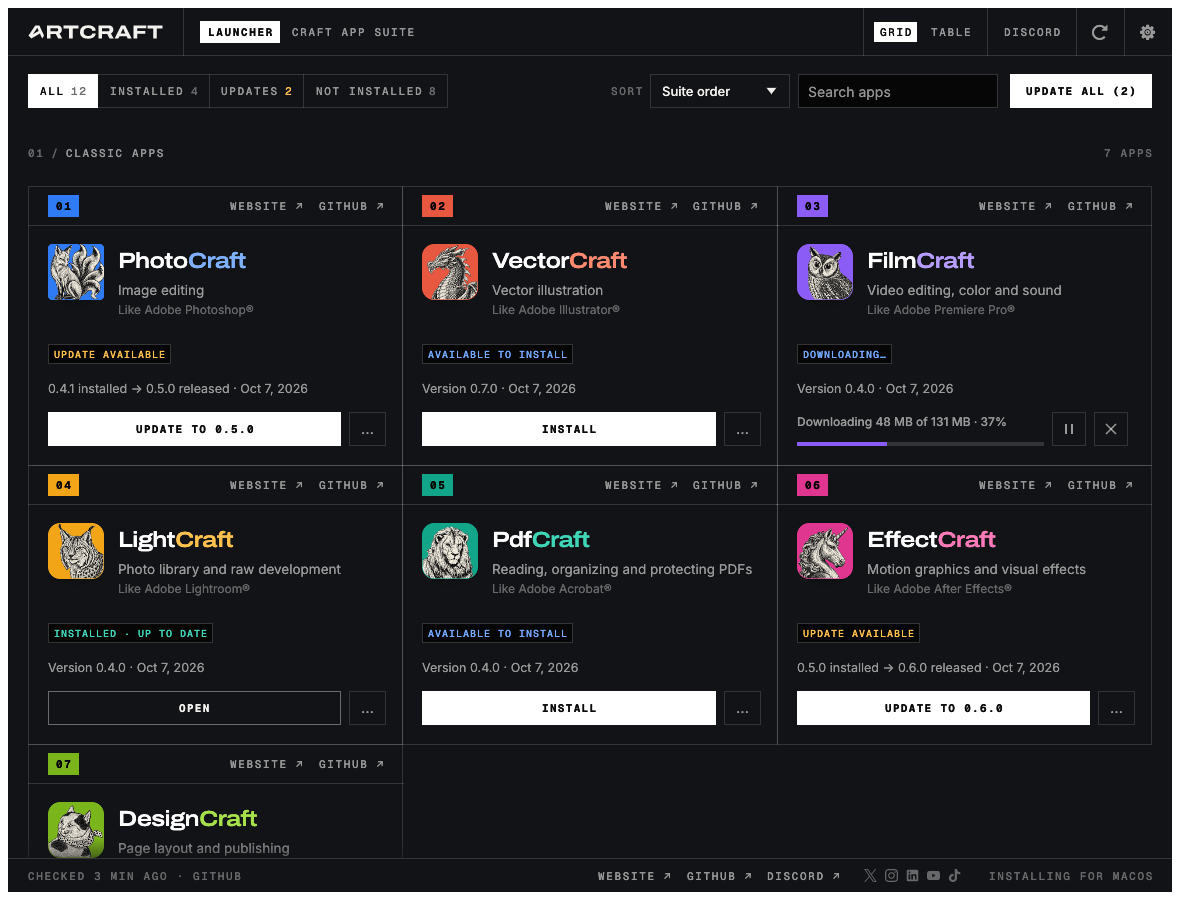
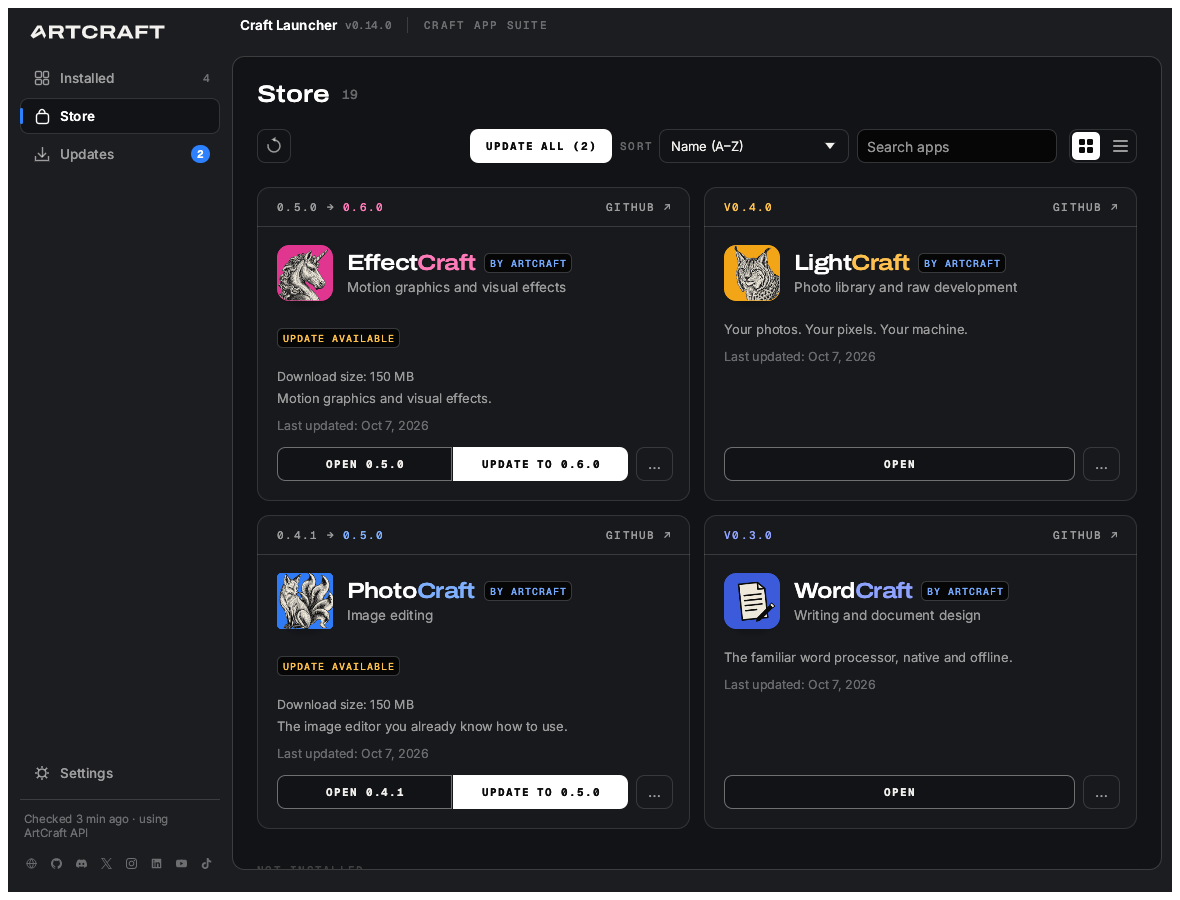
README: present this repo as a fork, with its own downloads and screenshots
- A fork note at the top: based on storytold/craft-launcher, not made or
  endorsed by the ArtCraft team, what differs (the redesigned UI,
  unsigned builds, its own updates), and where to report problems.
- Downloads lists only what this fork's release builds (Windows .msi,
  portable .zip and .exe, macOS .dmg, Linux .flatpak), with the steps
  for opening unsigned builds, and points to upstream for signed builds
  and other formats.
- The launcher's self-update paragraph, clone and nix commands, status
  note and license text describe this fork.
- New screenshots of the sidebar design, rendered by a readme_screenshots
  UI test so they can be regenerated.
- Removed the ArtCraft Discord buttons and community note, and the
  SonarCloud and CodeRabbit badges, which report on upstream's repo.
  The Craft App Suite and Thanks tables stay.

Claude-Session: https://claude.ai/code/session_01C1Xf1N3MvCHtz64Wyuzjii

diff --git a/crates/ui-egui/tests/ui.rs b/crates/ui-egui/tests/ui.rs
@@ -4365,3 +4365,20 @@ fn the_web_sidebar_has_only_the_store() {
     assert!(h.query_by_label_contains("Updates").is_none());
     snapshot(&mut h, "page-web-store-dark");
 }
+
+#[test]
+/// The README's two screenshots (`docs/screenshots/`), at their size there: the Store as cards in
+/// the dark theme and as a table in the light one. Regenerate them with
+/// `ARTCRAFT_LAUNCHER_SNAPSHOTS=$PWD/docs/screenshots cargo test -p artcraft-launcher-ui-egui --test ui -- readme_screenshots`
+/// from the repository root (tests run in the crate's folder, so the path must be absolute).
+fn readme_screenshots() {
+    for (view, theme, name) in
+        [(ViewMode::Grid, egui::Theme::Dark, "artcraft-launcher-grid"), (ViewMode::Table, egui::Theme::Light, "artcraft-launcher-table")]
+    {
+        let (mut h, _) = harness(view, theme, true);
+        h.set_size(egui::vec2(1180.0, 900.0));
+        h.run_steps(8);
+        h.get_by_role_and_label(egui::accesskit::Role::Tab, "Store");
+        snapshot(&mut h, name);
+    }
+}

diff --git a/README.md b/README.md
@@ -13,6 +13,8 @@
 
 <h1 align="center">ArtCraft Launcher</h1>
 
+<p align="center"><i>A community fork of <a href="https://github.com/storytold/craft-launcher">ArtCraft Launcher</a>, with a redesigned interface.</i></p>
+
 <p align="center">
   <b>One place to install, update and open every app in the Craft App Suite, rebuilt in pure Rust.</b><br>
   PhotoCraft, LightCraft, FilmCraft, DesignCraft, VectorCraft, PdfCraft, EffectCraft, AniCraft, WordCraft,<br>
@@ -24,40 +26,43 @@
   <img alt="macOS · Windows · Linux · FreeBSD · Web" src="https://img.shields.io/badge/macOS%20%C2%B7%20Windows%20%C2%B7%20Linux%20%C2%B7%20FreeBSD%20%C2%B7%20Web-native-26282e?style=flat-square">
   <img alt="License: MIT OR Apache-2.0" src="https://img.shields.io/badge/license-MIT%20%2F%20Apache--2.0-3a3a3a?style=flat-square">
   <img alt="Status: early alpha" src="https://img.shields.io/badge/status-early%20alpha-d69e2e?style=flat-square">
-  <br>
-  <a href="https://sonarcloud.io/project/overview?id=storytold_craft-launcher"><img alt="Scanned by SonarCloud" src="https://img.shields.io/badge/Scanned_by-SonarCloud-4b9fd5?style=flat-square&logo=sonarqubecloud&logoColor=white"></a>
-  <a href="https://coderabbit.ai"><img alt="Reviewed by CodeRabbit" src="https://img.shields.io/coderabbit/prs/github/storytold/craft-launcher?style=flat-square&label=Reviewed%20by%20CodeRabbit&logo=coderabbit"></a>
 </p>
 
 <p align="center">
-  <a href="https://discord.gg/artcraft"><img alt="Join the ArtCraft community on Discord" src="https://img.shields.io/badge/Join%20us%20on%20Discord-5865F2?style=for-the-badge&logo=discord&logoColor=white" height="40"></a>
-</p>
-
-<p align="center">
-  <a href="https://github.com/storytold/craft-launcher/releases/latest"><b>Download ArtCraft Launcher</b></a> ·
-  <a href="https://getartcraft.com/">ArtCraft</a> ·
+  <a href="https://github.com/pupska/artcraft-launcher-next/releases/latest"><b>Download this fork</b></a> ·
+  <a href="https://github.com/storytold/craft-launcher">Upstream ArtCraft Launcher</a> ·
   <a href="https://getartcraft.com/apps">The Craft App Suite</a>
 </p>
 
 > [!NOTE]
-> **ArtCraft is a community of artists from all walks of life.** Painters, photographers,
-> filmmakers, illustrators, designers, animators, hobbyists, and people who picked up a pencil
-> last week. If you make things, you're one of us. **[Come say hi on Discord](https://discord.gg/artcraft).**
+> **This is a fork, not the official ArtCraft Launcher.** It is based on
+> [storytold/craft-launcher](https://github.com/storytold/craft-launcher) by the ArtCraft team, but
+> it isn't made, sponsored or endorsed by them. What's different here:
+>
+> - **A redesigned interface:** a sidebar with Installed, Store and Updates pages, a title bar, and
+>   rounded cards and controls on an inset content panel.
+> - **Unsigned builds:** this fork's releases aren't code-signed, so Windows and macOS warn before
+>   the first launch (see [Downloads](#downloads)). For signed builds, use
+>   [upstream's releases](https://github.com/storytold/craft-launcher/releases/latest).
+> - **Its own updates:** the launcher checks this fork's releases and offers each new version as a
+>   download, rather than updating itself in place.
+>
+> Report problems with this fork in [this repo's issues](https://github.com/pupska/artcraft-launcher-next/issues),
+> not upstream's.
 
 <p align="center">
   <a href="#what-it-does">What it does</a> ·
   <a href="#features">Features</a> ·
   <a href="#downloads">Downloads</a> ·
   <a href="#build-from-source">Build from source</a> ·
-  <a href="#the-craft-app-suite">Craft App Suite</a> ·
-  <a href="https://discord.gg/artcraft">Discord</a>
+  <a href="#the-craft-app-suite">Craft App Suite</a>
 </p>
 
 <p align="center">
-  <img src="docs/screenshots/artcraft-launcher-grid.png" alt="ArtCraft Launcher on macOS in the grid view (dark theme): a card for each Craft App with its icon, status, version, release date and an Install or Open button" width="900">
+  <img src="docs/screenshots/artcraft-launcher-grid.png" alt="ArtCraft Launcher's Store page in the grid view (dark theme): the sidebar with the Installed, Store and Updates pages on the left, and a rounded card for each Craft App with its icon, status, version, release date and an Install or Open button" width="900">
 </p>
 <p align="center">
-  <img src="docs/screenshots/artcraft-launcher-table.png" alt="The same apps in the table view (light theme), with columns for each app's status, installed and latest versions, and release date" width="900"><br>
+  <img src="docs/screenshots/artcraft-launcher-table.png" alt="The same Store page in the table view (light theme), with columns for each app's status, installed and latest versions, and release date" width="900"><br>
   <sub>Switch between the grid and a sortable table.</sub>
 </p>
 
@@ -67,6 +72,11 @@ The Craft apps each ship their own builds for every platform. ArtCraft Launcher 
 hunting through a dozen release pages: it lists every app in the suite, shows which ones you have
 and which version, installs the right build for your operating system and processor, and tells
 you when an update is out. It is a small native app that can sit in your menu bar or system tray.
+
+The sidebar splits the catalog into pages: **Installed** (the apps on this computer), **Store**
+(every app in the suite) and **Updates** (the ones with a newer version waiting, with a count).
+Apps you hide get a **Hidden Apps** page until you bring them back. Each page shows its apps as
+cards or as a sortable table.
 
 ## Features
 
@@ -131,9 +141,10 @@ installed by hand (and the launcher finds apps you installed yourself):
 | Linux, inside the launcher's Flatpak, with no Flatpak on the host | `~/.var/app/ai.storyteller.artcraft-launcher/data/artcraft-launcher/apps/<app>` | The release tarball, unpacked into the launcher's own folder and run inside the same sandbox, with its settings in a `home/` folder beside it. Nothing is installed on the host, and each app's configuration stays in the sandbox |
 | FreeBSD | `/usr/local` | The release tree, with a password prompt (polkit); `~/.local` when polkit isn't installed |
 
-ArtCraft Launcher keeps itself current too: when a new version is out, **Update and restart**
-downloads it, verifies it, puts it where this copy is installed (the `.app`, the Windows Installer
-package or portable folder, the AppImage, or the `.deb`/`.rpm`) and reopens it.
+When a new version of this fork is out, the launcher says so and offers its download for your
+system (the `.msi`, the `.dmg` or the `.flatpak`). Install it the same way you installed this one:
+fork builds are unsigned, so they don't replace themselves in place the way upstream's signed
+builds do.
 
 Updates use the same format an app was installed with. Every download is checked against the
 release's published SHA-256 before it is installed, and a running app is never replaced.
@@ -146,54 +157,51 @@ portable zip's executable) and keeps the previous two runs as `artcraft-launcher
 
 ## Downloads
 
-Download the build for your computer from the [latest release](https://github.com/storytold/craft-launcher/releases/latest), or browse [all releases](https://github.com/storytold/craft-launcher/releases). Every release has a `SHA256SUMS.txt` to check the files against. `<ver>` is the version number, for example `0.1.0`.
+Download the build for your computer from this fork's
+[latest release](https://github.com/pupska/artcraft-launcher-next/releases/latest), or browse
+[all releases](https://github.com/pupska/artcraft-launcher-next/releases). Every release has a
+`SHA256SUMS.txt` to check a download against. `<ver>` is the version number, for example `0.14.0`.
 
-**Windows** (10 and 11)
+> [!WARNING]
+> **These builds aren't code-signed.** Your system will warn you the first time you open one; the
+> steps below get past it. If you'd rather have signed builds, or a format this fork doesn't build
+> (AppImage, `.deb`, `.rpm`, Windows on Arm, FreeBSD, the web version), use
+> [upstream's releases](https://github.com/storytold/craft-launcher/releases/latest).
+
+**Windows** (10 and 11, 64-bit Intel and AMD)
 
 | File | What it is |
 |---|---|
-| `artcraft-launcher-<ver>-windows-x64.msi` | Installer for most PCs (Intel and AMD, 64-bit). Installs for the current user, no admin rights needed |
-| `artcraft-launcher-<ver>-windows-arm64.msi` | Installer for Windows on Arm (Snapdragon and other Arm PCs) |
-| `artcraft-launcher-<ver>-windows-x86.msi` | Installer for 32-bit Windows |
-| `artcraft-launcher-<ver>-windows-{x64,arm64,x86}-portable.zip` | No install: unzip and run `artcraft-launcher.exe`. Keeps its settings in the folder |
+| `artcraft-launcher-<ver>-windows-x64.msi` | Installer. Installs for the current user, no admin rights needed |
+| `artcraft-launcher-<ver>-windows-x64-portable.zip` | No install: unzip and run `artcraft-launcher.exe`. Keeps its settings in the folder |
+| `artcraft-launcher-<ver>-windows-x64.exe` | The program on its own: download and run. Keeps its settings in `%LOCALAPPDATA%` |
+
+When SmartScreen says **"Windows protected your PC"**, choose **More info**, then **Run anyway**.
 
 **macOS** (11 Big Sur or later)
 
 | File | What it is |
 |---|---|
-| `artcraft-launcher-<ver>-macos-universal.dmg` | Universal app for Apple silicon and Intel Macs, signed and notarized. Drag ArtCraft Launcher to Applications |
+| `artcraft-launcher-<ver>-macos-universal.dmg` | Universal app for Apple silicon and Intel Macs. Drag ArtCraft Launcher to Applications |
 
-**Linux** (x86_64 and aarch64; glibc 2.35 or newer, e.g. Ubuntu 22.04+, Debian 12+, Fedora 36+)
-
-| File | What it is |
-|---|---|
-| `artcraft-launcher-<ver>-linux-{x86_64,aarch64}.AppImage` | Runs on almost any distro without installing; `chmod +x` and run. The `.AppImage.zsync` beside it lets AppImageUpdate fetch only what changed |
-| `artcraft-launcher-<ver>-linux-{x86_64,aarch64}.deb` | Debian, Ubuntu, Mint, Pop!_OS: `sudo apt install ./artcraft-launcher-…deb` |
-| `artcraft-launcher-<ver>-linux-{x86_64,aarch64}.rpm` | Fedora, openSUSE, RHEL: `sudo dnf install ./artcraft-launcher-…rpm` |
-| `artcraft-launcher-<ver>-linux-{x86_64,aarch64}.flatpak` | Flatpak bundle: `flatpak install --user artcraft-launcher-…flatpak`. Inside the sandbox the launcher installs apps as Flatpaks on the host through `flatpak-spawn --host`; where the host has no Flatpak it falls back to each app's release tarball, unpacked and run inside the sandbox with the app's settings kept in it. Either way it can only reach the host as far as that permission allows; the AppImage, .deb and .rpm builds are the recommended way to run the launcher on Linux |
-| `artcraft-launcher-<ver>-linux-{x86_64,aarch64}.tar.gz` | Plain tree (`bin/`, `share/`) for everyone else and for scripts |
-
-RISC-V (riscv64): `artcraft-launcher-<ver>-linux-riscv64.{deb,rpm,tar.gz}`, built against Ubuntu 24.04 (needs glibc 2.39+).
-
-The tray icon uses the StatusNotifierItem standard: KDE, Xfce, Cinnamon and most other desktops show it; on GNOME install the AppIndicator extension.
-
-**FreeBSD** (14, x86_64)
-
-| File | What it is |
-|---|---|
-| `artcraft-launcher-<ver>-freebsd-x86_64.tar.gz` | A tree laid out like `/usr/local` |
+The app is ad-hoc signed and not notarized, so macOS blocks the first launch. Open it once, then go
+to **System Settings → Privacy & Security** and choose **Open Anyway**. Or, in Terminal:
 
 ```sh
-pkg install libxkbcommon wayland libX11 libXcursor libXrandr libXi libxcb mesa-libs vulkan-loader fontconfig freetype2
-tar -xzf artcraft-launcher-<ver>-freebsd-x86_64.tar.gz --strip-components 1 -C /usr/local
-artcraft-launcher
+xattr -dr com.apple.quarantine "/Applications/ArtCraft Launcher.app"
 ```
 
-**Web (WebAssembly)**
+**Linux** (x86_64, and aarch64 while this repo is public)
 
 | File | What it is |
 |---|---|
-| `artcraft-launcher-web-<ver>.zip` | The catalog as a static site you can host anywhere; see [`packaging/web/README.md`](packaging/web/README.md) |
+| `artcraft-launcher-<ver>-linux-{x86_64,aarch64}.flatpak` | Flatpak bundle: `flatpak install --user ./artcraft-launcher-…flatpak` (the freedesktop runtime comes from Flathub). Inside the sandbox the launcher installs apps as Flatpaks on the host through `flatpak-spawn --host` |
+
+The tray icon uses the StatusNotifierItem standard: KDE, Xfce, Cinnamon and most other desktops
+show it; on GNOME install the AppIndicator extension.
+
+Other platforms and formats (AppImage, `.deb`, `.rpm`, FreeBSD, the web version) can be built from
+this repo's source; see below.
 
 ## Build from source
 
@@ -201,8 +209,8 @@ You need a recent stable Rust (1.90 or newer). On Linux, install the windowing h
 (Debian/Ubuntu: `sudo apt install libxkbcommon-dev libwayland-dev libx11-dev libxrandr-dev libxi-dev libgl1-mesa-dev`).
 
 ```sh
-git clone https://github.com/storytold/craft-launcher
-cd craft-launcher
+git clone https://github.com/pupska/artcraft-launcher-next
+cd artcraft-launcher-next
 cargo run --release -p artcraft-launcher   # the desktop app
 cargo xtask ci                             # fmt, clippy, tests and the wasm check
 ```
@@ -219,16 +227,16 @@ cd apps/artcraft-launcher-web && trunk serve
 `flake.nix` gives a dev shell (`nix develop`, then the cargo commands above) and a package:
 
 ```sh
-nix run github:storytold/craft-launcher
+nix run github:pupska/artcraft-launcher-next
 ```
 
 On NixOS this uses the system's graphics drivers. On other distros, a Nix-built program can't load
 the host's GPU drivers, so the window may fail to open. Run it through
 [nixGL](https://github.com/nix-community/nixGL) instead (NVIDIA needs nixGL's matching NVIDIA
-variant), or use the AppImage, `.deb` or `.rpm` release:
+variant), or use the Flatpak release:
 
 ```sh
-nix run --impure github:nix-community/nixGL -- nix run github:storytold/craft-launcher
+nix run --impure github:nix-community/nixGL -- nix run github:pupska/artcraft-launcher-next
 ```
 
 ### Installing your own builds
@@ -251,12 +259,14 @@ releases (`0.4.0` builds as `0.4.1-dev.<commit time>`), which the launcher offer
 mirror, never GitHub. Only builds with the `local-mirror` feature read it; releases never have it. `cargo xtask local help` lists the options (`--only`, `--no-pull`, `--arch`, …).
 
 New contributors and AI agents: start with [`AGENTS.md`](AGENTS.md). Release packaging lives in
-[`packaging/`](packaging/) and [`.github/workflows/release.yml`](.github/workflows/release.yml).
+[`packaging/`](packaging/) and [`.github/workflows/release.yml`](.github/workflows/release.yml),
+which builds this fork's unsigned releases from the `release` branch (see "Releasing" in
+`AGENTS.md`).
 
 > [!IMPORTANT]
-> **Status:** ArtCraft Launcher is new and in early alpha. Expect rough edges, and please file
-> issues (include your OS, which app you were installing and the launcher's log file) or tell us on
-> [Discord](https://discord.gg/artcraft).
+> **Status:** this fork is new and in early alpha. Expect rough edges, and please file
+> [issues here](https://github.com/pupska/artcraft-launcher-next/issues) (include your OS, which
+> app you were installing and the launcher's log file).
 
 ## The Craft App Suite
 
@@ -288,32 +298,12 @@ stand on its own.
 
 <br>
 
-<p align="center">
-  <a href="https://discord.gg/artcraft"><img alt="Join the ArtCraft community on Discord" src="https://img.shields.io/badge/Join%20us%20on%20Discord-5865F2?style=for-the-badge&logo=discord&logoColor=white" height="40"></a>
-</p>
-
-<h3 align="center">Come make things with us</h3>
-
-<p align="center">
-  Our Discord is where artists of every kind hang out: people who paint, shoot, draw, cut film,
-  set type, and people still figuring out what they like to make. Share what you're working on,
-  ask for help, tell us what's broken, or tell us what you wish these tools could do.
-  Whatever your medium and however long you've been at it, you're welcome here.
-</p>
-
-<p align="center">
-  <a href="https://discord.gg/artcraft"><b>discord.gg/artcraft</b></a> ·
-  <a href="https://getartcraft.com/">getartcraft.com</a> ·
-  <a href="https://getartcraft.com/apps">The Craft App Suite</a> ·
-  <a href="https://github.com/storytold/craft-launcher">ArtCraft Launcher</a>
-</p>
-
----
-
 ## Thanks
 
-The community built launchers for the Craft App Suite before we did, and ArtCraft Launcher learned a
-lot from them. Thank you to their authors:
+The community built launchers for the Craft App Suite before upstream did, and ArtCraft Launcher
+learned a lot from them. Thank you to their authors, and to the ArtCraft team and the
+[ArtCraft Launcher contributors](https://github.com/storytold/craft-launcher/graphs/contributors)
+this fork is built on:
 
 | Project | Author | What we learned from it |
 |---|---|---|
@@ -332,8 +322,10 @@ lot from them. Thank you to their authors:
 
 ## License and credits
 
-ArtCraft Launcher is dual-licensed under [MIT](LICENSE-MIT) or [Apache-2.0](LICENSE-APACHE), at your option.
-Copyright (c) 2026 ArtCraft Team and the ArtCraft Launcher contributors. Required notices are in [NOTICE](NOTICE).
+This fork is dual-licensed under [MIT](LICENSE-MIT) or [Apache-2.0](LICENSE-APACHE), at your
+option, like the [upstream ArtCraft Launcher](https://github.com/storytold/craft-launcher) it is
+based on. Copyright (c) 2026 ArtCraft Team and the ArtCraft Launcher contributors. Required notices
+are in [NOTICE](NOTICE).
 
 Bundled fonts, icons, images and other assets keep their own open licenses; each one is listed
 with its author, source and license in [ATTRIBUTION.md](ATTRIBUTION.md).
@@ -349,6 +341,5 @@ part of this repository and ArtCraft Launcher, under [`docs/brand/LICENSE-brand.
 Forks and modified versions must remove them.
 
 <p align="center">
-  <a href="https://getartcraft.com/"><img alt="ArtCraft" src="docs/brand/artcraft-mark.svg" width="28"></a><br>
-  <sub>Made by the <a href="https://getartcraft.com/">ArtCraft</a> team and community.</sub>
+  <sub>Based on <a href="https://github.com/storytold/craft-launcher">ArtCraft Launcher</a> by the <a href="https://getartcraft.com/">ArtCraft</a> team and community.</sub>
 </p>

diff --git a/ATTRIBUTION.md b/ATTRIBUTION.md
@@ -15,7 +15,7 @@ next to them.
 | `assets/social/linkedin.svg` | LinkedIn logo, linking to ArtCraft's company page | Fonticons, Inc. ([Font Awesome Free](https://fontawesome.com) 6.7.2) | Font Awesome Free `svgs/brands/linkedin.svg`; white fill and a square view box, see [`assets/social/README.md`](assets/social/README.md) | CC BY 4.0. The logo is a trademark of LinkedIn Corporation. |
 | `assets/social/x.svg`, `youtube.svg`, `tiktok.svg`, `instagram.svg`, `discord.svg` | X, YouTube, TikTok, Instagram and Discord logos, linking to ArtCraft's accounts | [Simple Icons](https://simpleicons.org/) contributors | Simple Icons, `fill` set to white for tinting; see [`assets/social/README.md`](assets/social/README.md) | CC0 1.0. The logos are trademarks of X Corp., Google LLC, TikTok / ByteDance, Meta Platforms, Inc. and Discord Inc. |
 | `assets/social/github.svg`, `assets/social/globe.svg` | GitHub logo (linking to ArtCraft's GitHub) and a globe (linking to ArtCraft's website) | [Simple Icons](https://simpleicons.org/) contributors; [Lucide](https://lucide.dev) contributors | Simple Icons `github.svg` and Lucide `globe.svg` (lucide-static 0.468.0), white for tinting; see [`assets/social/README.md`](assets/social/README.md) | CC0 1.0 (GitHub logo; a trademark of GitHub, Inc.); ISC (globe) |
-| `docs/screenshots/artcraft-launcher-grid.png`, `artcraft-launcher-table.png` | Screenshots of ArtCraft Launcher (macOS: grid view in dark theme, table view in light theme), used in the README | ArtCraft Launcher contributors | Captured from the app | MIT OR Apache-2.0 for the screenshot itself; the ArtCraft logo in it stays an ArtCraft trademark ([`docs/brand/LICENSE-brand.txt`](docs/brand/LICENSE-brand.txt)) and the app icons in it keep their own licenses (above) |
+| `docs/screenshots/artcraft-launcher-grid.png`, `artcraft-launcher-table.png` | Screenshots of this fork's Store page (grid view in dark theme, table view in light theme), used in the README | ArtCraft Launcher contributors | Rendered from the app by the `readme_screenshots` UI test (`crates/ui-egui/tests/ui.rs`) | MIT OR Apache-2.0 for the screenshot itself; the ArtCraft logo in it stays an ArtCraft trademark ([`docs/brand/LICENSE-brand.txt`](docs/brand/LICENSE-brand.txt)) and the app icons in it keep their own licenses (above) |
 | (not bundled) the pictures on each app's details page | Screenshots of the Craft Apps, fetched when a page is opened and kept in the launcher's cache folder | The apps' contributors | [storytold/craft-launcher-assets](https://github.com/storytold/craft-launcher-assets), pinned to a tag (`SCREENSHOTS_REV` in `crates/core/src/details.rs`); each picture's source and license are listed in that repository's `ATTRIBUTION.md` | Each app's own license for the interface (MIT OR Apache-2.0); the work shown in them is public domain or made in the app, as that file says |
 | `docs/brand/artcraft-logo.svg`, `artcraft-logo-white.svg` | ArtCraft wordmark, shown in the window header | ArtCraft Team | Supplied brand files, unmodified (same as PhotoCraft's `docs/brand/`) | **Not open source; not MIT or Apache-2.0.** ArtCraft trademark, [`docs/brand/LICENSE-brand.txt`](docs/brand/LICENSE-brand.txt) |
 | `docs/brand/artcraft-mark-64.png`, `artcraft-mark-black-44.png` | ArtCraft "A" mark, the tray / menu-bar icon | ArtCraft Team | Rendered unmodified from `docs/brand/artcraft-mark.svg` and `artcraft-mark-black.svg` by `packaging/icons.sh` | **Not open source; not MIT or Apache-2.0.** ArtCraft trademark, [`docs/brand/LICENSE-brand.txt`](docs/brand/LICENSE-brand.txt) |
